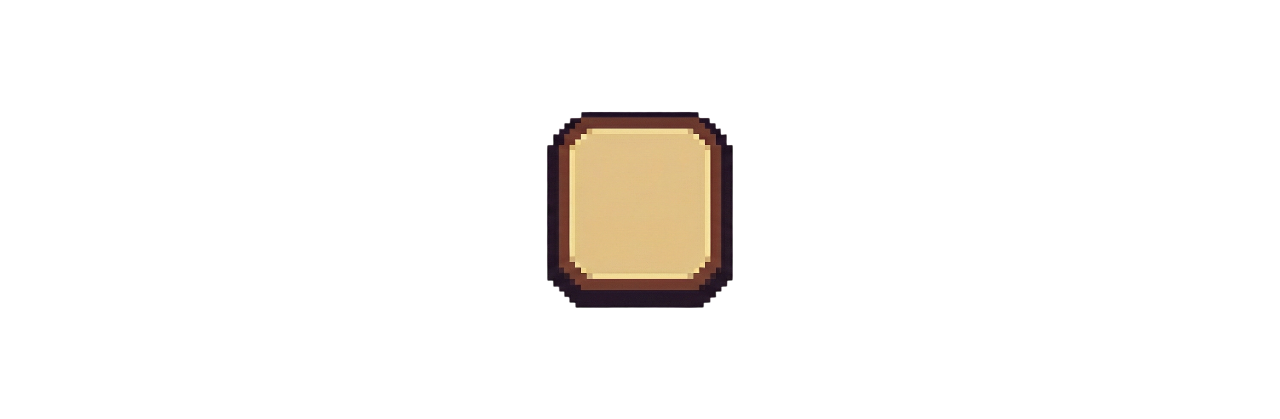
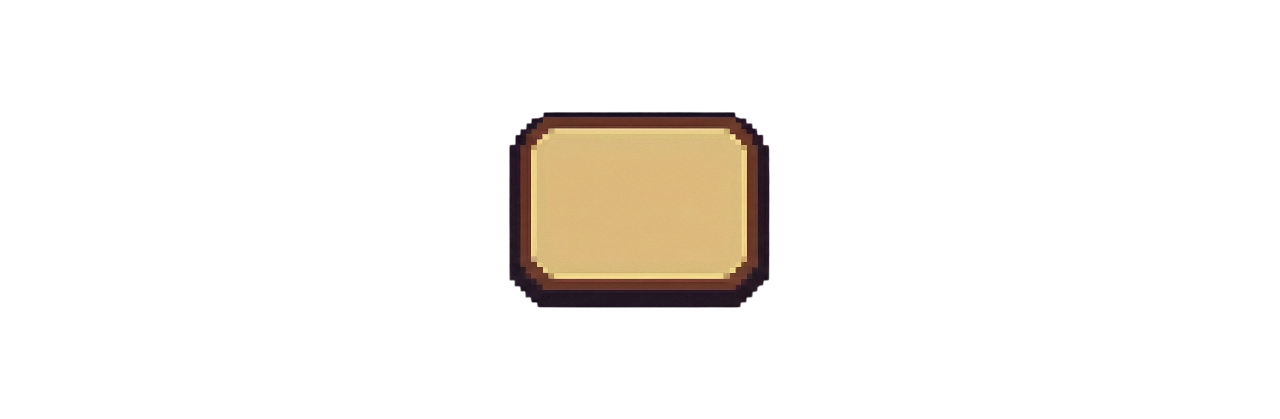
adding functional settings button

Changed region(s): [[0.5312, 0.2482, 0.625, 0.7446], [0.375, 0.2482, 0.4688, 0.7446]]

diff --git a/Assets/scripts/TogglePanel.cs b/Assets/scripts/TogglePanel.cs
@@ -5,10 +5,19 @@ public class TogglePanel : MonoBehaviour
     [SerializeField]
     private GameObject upgradePanel;
 
-    public void SwitchPanel()
+    [SerializeField]
+    private GameObject SettingsPanel;
+
+    public void UpgradeSwitchPanel()
     {
         bool isActive = upgradePanel.activeSelf;
         upgradePanel.SetActive(!isActive);
+    }
+
+        public void SettingsSwitchPanel()
+    {
+        bool isActive = SettingsPanel.activeSelf;
+        SettingsPanel.SetActive(!isActive);
     }
 
 }
